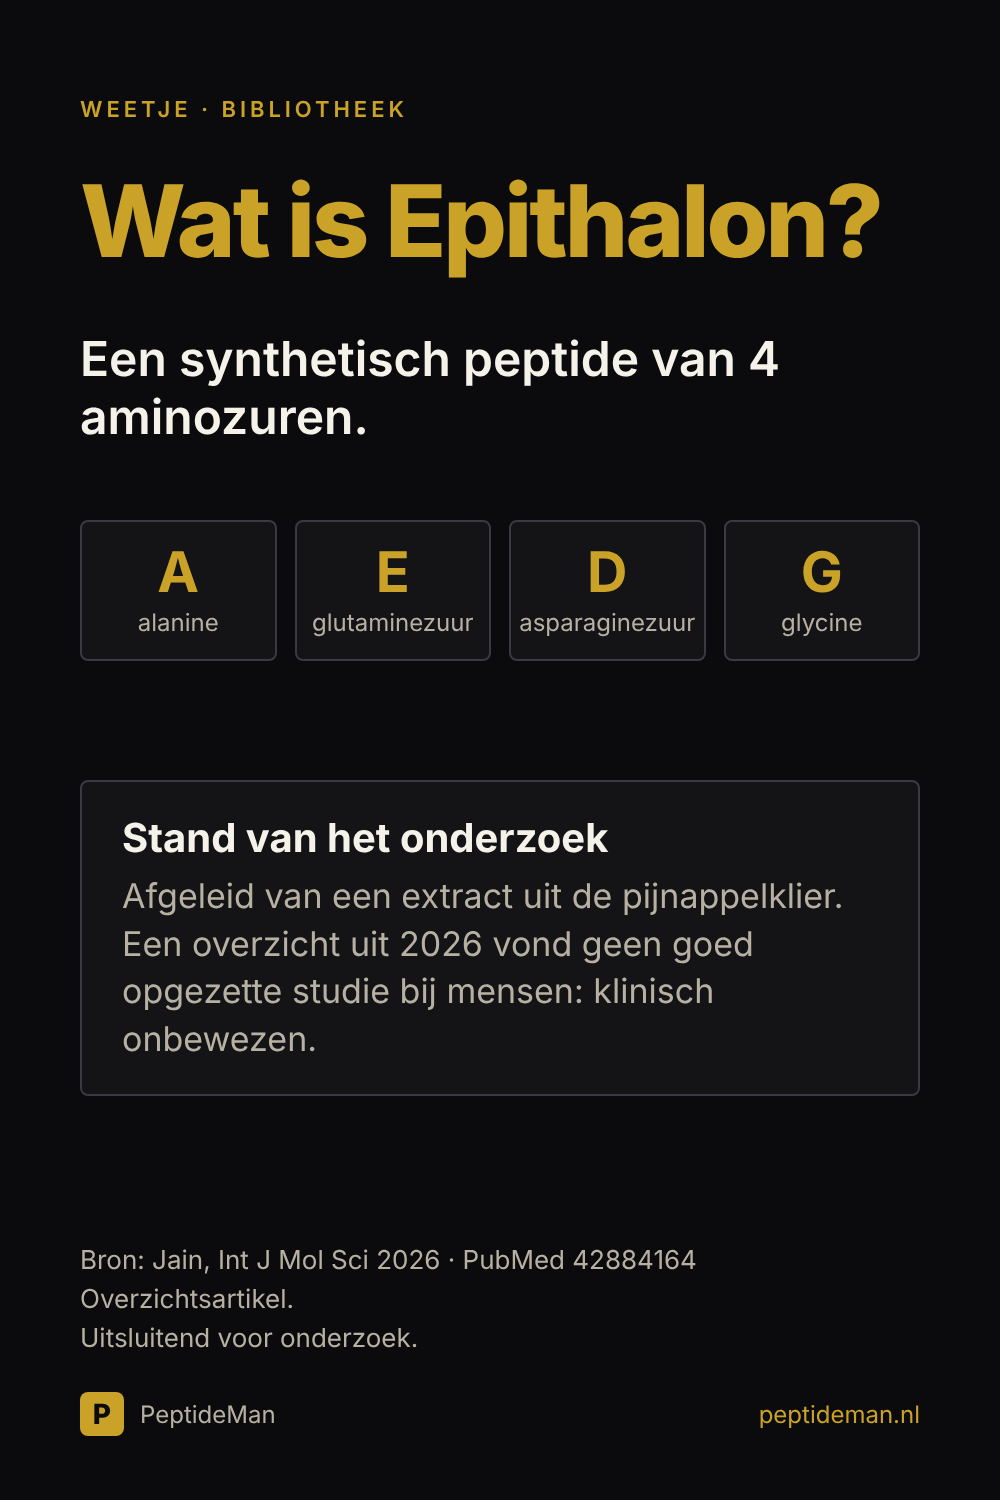
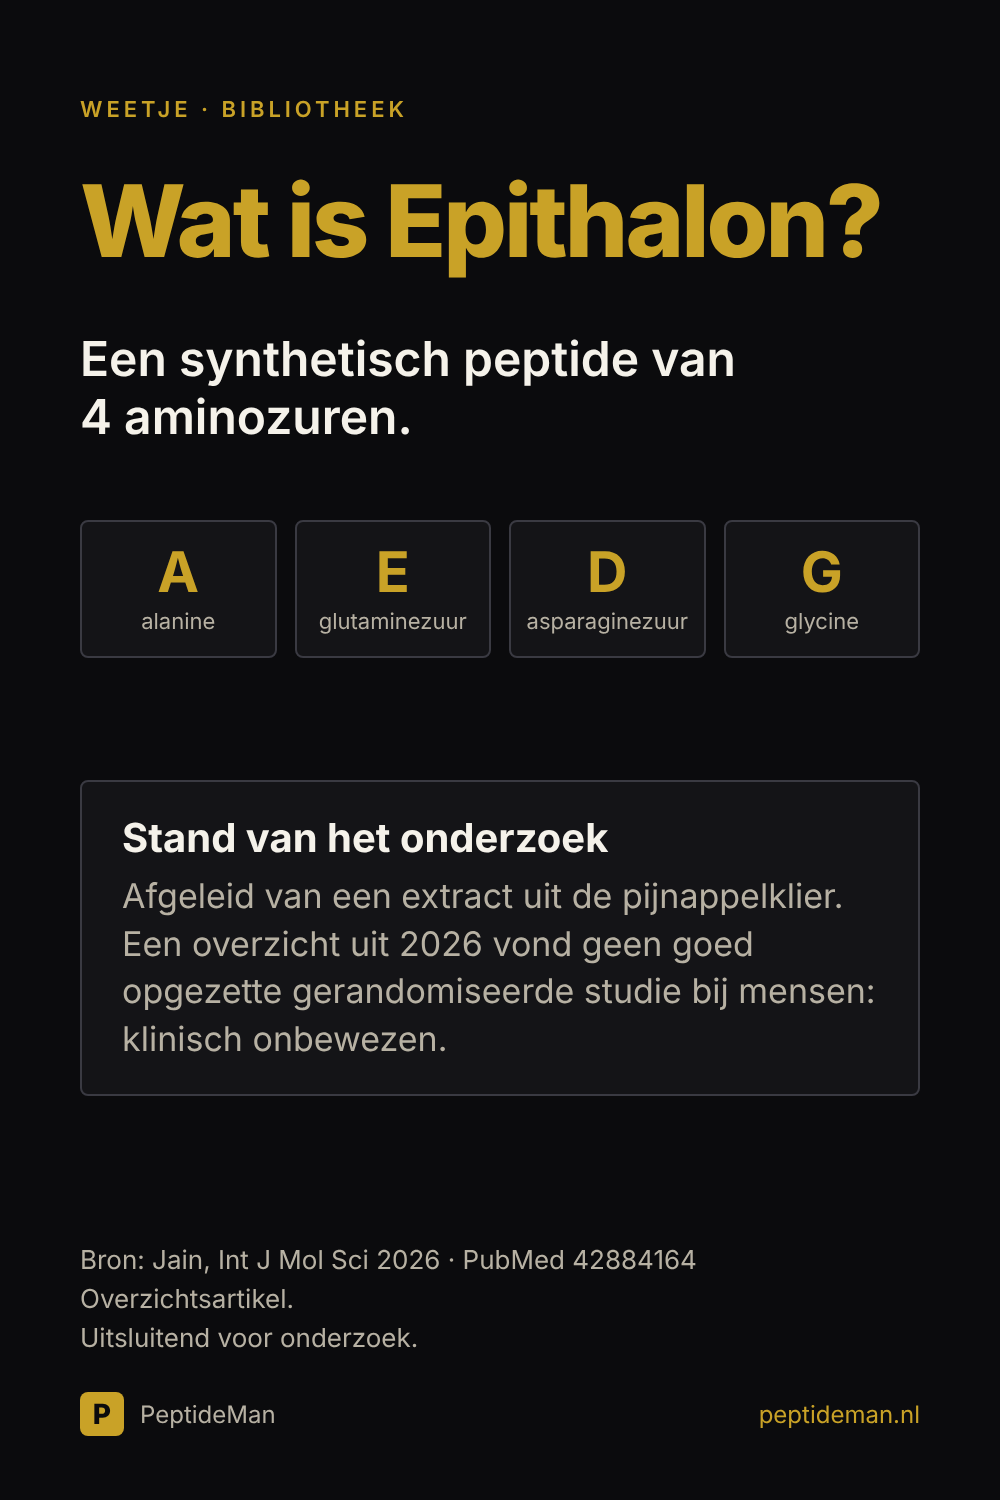
Epithalon-pin: claimcheck GOED, beeld online
Claude-Session: https://claude.ai/code/session_01X3HvVJNAv4UEHdGV4K9b5F

diff --git a/posts/media/2026-11-17-weetje-epithalon.html b/posts/media/2026-11-17-weetje-epithalon.html
@@ -11,7 +11,7 @@ h1{position:absolute;top:170px;left:80px;right:80px;font-size:100px;white-space:
 .chain{position:absolute;top:520px;left:80px;right:80px;display:flex;gap:18px}
 .aa{flex:1;background:var(--surface);border:2px solid var(--border);border-radius:8px;padding:22px 0;text-align:center}
 .aa b{display:block;color:var(--gold);font-size:56px;line-height:1}
-.aa span{display:block;font-size:24px;margin-top:8px}
+.aa span{display:block;font-size:22px;margin-top:8px}
 .card{position:absolute;top:780px;left:80px;right:80px;background:var(--surface);border:2px solid var(--border);border-radius:8px;padding:32px 40px;font-size:34px;line-height:1.4}
 .card b{display:block;color:var(--light);font-size:40px;line-height:1.2;margin-bottom:10px}
 .src{position:absolute;left:80px;right:80px;top:1240px;font-size:26px;line-height:1.5}
@@ -21,14 +21,14 @@ h1{position:absolute;top:170px;left:80px;right:80px;font-size:100px;white-space:
 </style></head><body>
 <div class="tag">Weetje · Bibliotheek</div>
 <h1>Wat is Epithalon?</h1>
-<div class="lead">Een synthetisch peptide van 4 aminozuren.</div>
+<div class="lead">Een synthetisch peptide van 4&nbsp;aminozuren.</div>
 <div class="chain">
   <div class="aa"><b>A</b><span>alanine</span></div>
   <div class="aa"><b>E</b><span>glutaminezuur</span></div>
   <div class="aa"><b>D</b><span>asparaginezuur</span></div>
   <div class="aa"><b>G</b><span>glycine</span></div>
 </div>
-<div class="card"><b>Stand van het onderzoek</b>Afgeleid van een extract uit de pijnappelklier. Een overzicht uit 2026 vond geen goed opgezette studie bij mensen: klinisch onbewezen.</div>
+<div class="card"><b>Stand van het onderzoek</b>Afgeleid van een extract uit de pijnappelklier. Een overzicht uit 2026 vond geen goed opgezette gerandomiseerde studie bij mensen: klinisch onbewezen.</div>
 <div class="src">Bron: Jain, Int J Mol Sci 2026 · PubMed 42884164<br>Overzichtsartikel.<br>Uitsluitend voor onderzoek.</div>
 <div class="foot"><div class="logo">P</div>PeptideMan<span class="url">peptideman.nl</span></div>
 </body></html>

diff --git a/posts/2026-11-17-weetje-epithalon.md b/posts/2026-11-17-weetje-epithalon.md
@@ -5,7 +5,7 @@ pin-link: https://peptideman.nl
 beeldtekst: Wat is Epithalon? Een synthetisch peptide van 4 aminozuren, afgeleid van een extract uit de pijnappelklier. Stand van het onderzoek: klinisch onbewezen.
 
 caption: |
-  Wat is Epithalon? Een synthetisch onderzoekspeptide van 4 aminozuren (Ala-Glu-Asp-Gly), samengesteld naar een extract uit de pijnappelklier. Een overzichtsartikel uit 2026 vond geen goed opgezette gerandomiseerde studie bij mensen en te weinig gegevens over veiligheid. Conclusie: klinisch onbewezen.
+  Wat is Epithalon? Een synthetisch onderzoekspeptide van 4 aminozuren (Ala-Glu-Asp-Gly), afgeleid van een extract uit de pijnappelklier. Een overzichtsartikel uit 2026 vond geen goed opgezette gerandomiseerde studie bij mensen en te weinig gegevens over veiligheid op lange termijn: klinisch onbewezen.
 
   Soort bron: overzichtsartikel.
   Bron: pubmed.ncbi.nlm.nih.gov/42884164
@@ -17,5 +17,5 @@ hashtags: #epithalon #peptideonderzoek #biochemie #PeptideMan
 bron: https://pubmed.ncbi.nlm.nih.gov/42884164/ (Jain A et al. Int J Mol Sci 2026. "Epitalon and Epithalamin: A Narrative Review of Mechanistic, Preclinical, and Clinical Evidence"; overzichtsartikel)
 
 beeld: posts/media/2026-11-17-weetje-epithalon.png
-beeld-url: open
-claimcheck: open
+beeld-url: https://peptideman-media-hspj.netlify.app/social/2026-11-17-weetje-epithalon.png
+claimcheck: GOED
